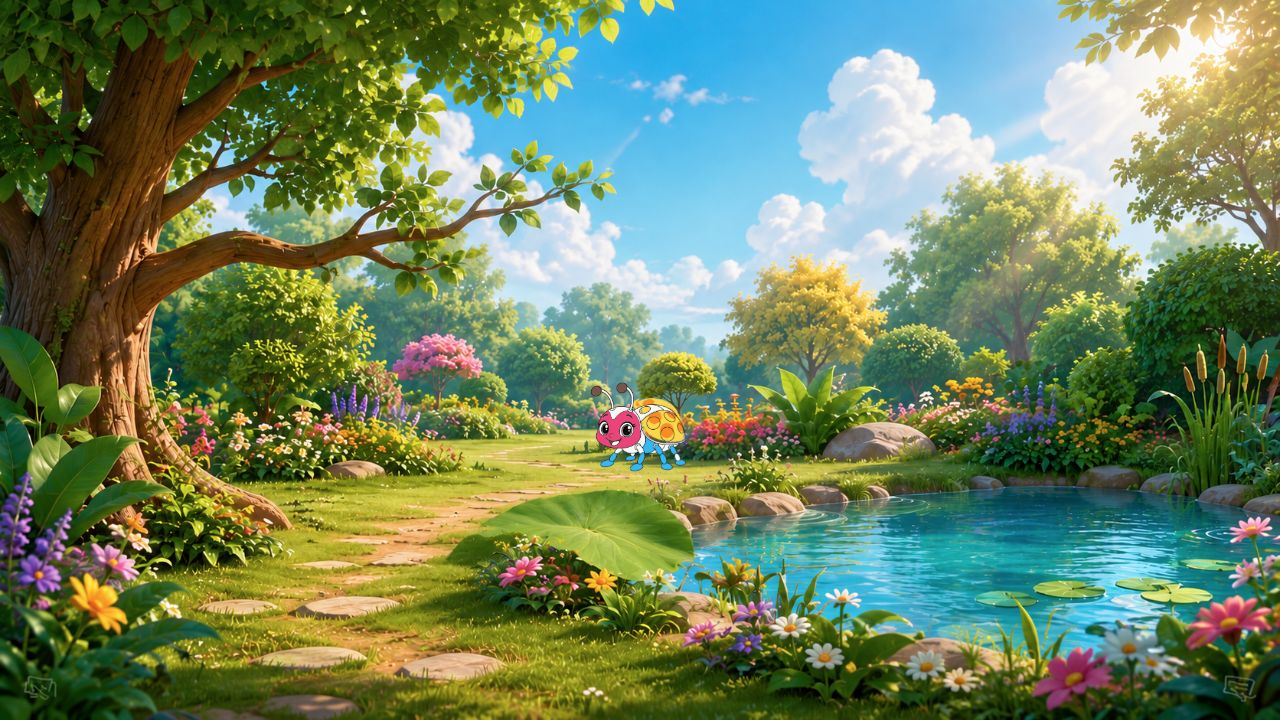
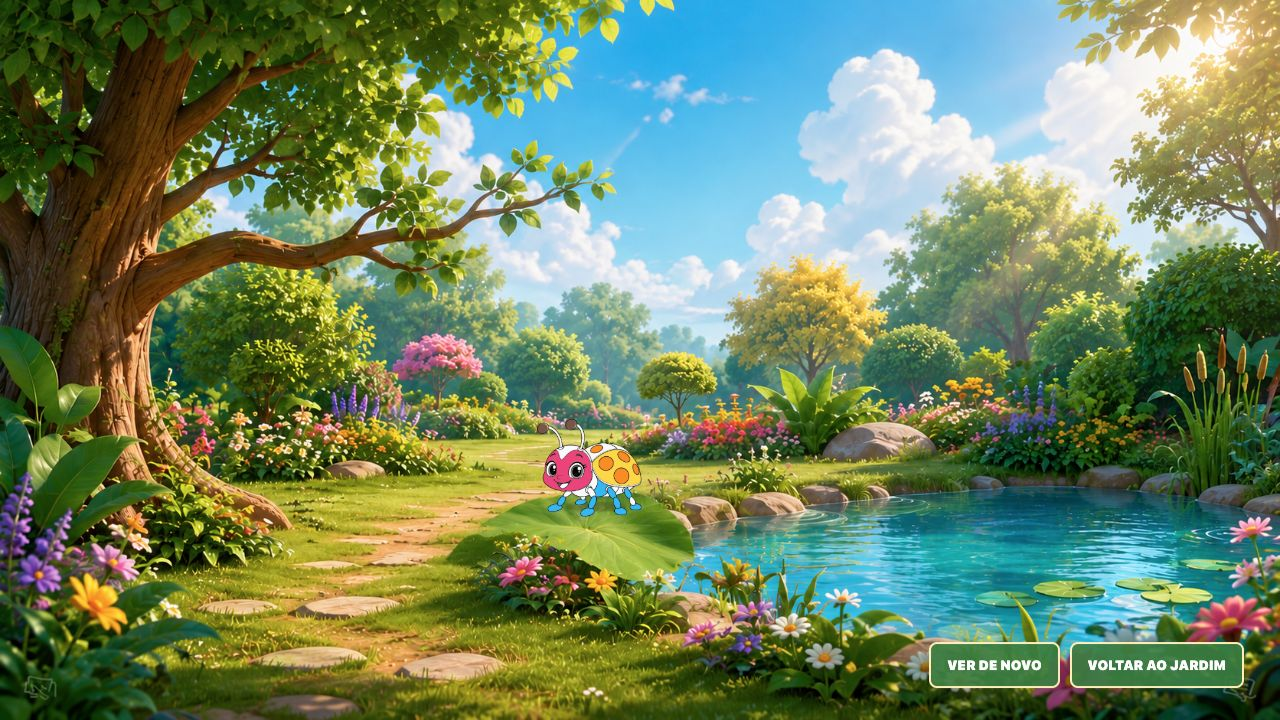
c

Changed region(s): [[0.7188, 0.8861, 0.9688, 0.9778], [0.4062, 0.5194, 0.5625, 0.7333]]

diff --git a/game-engine.css b/game-engine.css
@@ -5184,46 +5184,11 @@ body.game-immersive-active .game-stage,
 }
 
 .guided-life-wing-group.half {
-  transform: translate(0, -4%);
+  transform: translate(1.5%, -7%) rotate(-9deg) scale(0.96, 1.02);
 }
 
 .guided-life-wing-group.open {
-  transform: translate(0, -10%);
-}
-
-.guided-life-wing-side {
-  position: absolute;
-  inset: 0;
-  width: 100%;
-  height: 100%;
-  transform: translateZ(0);
-  will-change: transform;
-}
-
-.guided-life-wing-side.is-left {
-  clip-path: polygon(0 0, 55% 0, 55% 100%, 0 100%);
-  transform-origin: 55% 48%;
-}
-
-.guided-life-wing-side.is-right {
-  clip-path: polygon(45% 0, 100% 0, 100% 100%, 45% 100%);
-  transform-origin: 55% 48%;
-}
-
-.guided-life-wing-group.half .guided-life-wing-side.is-left {
-  transform: translate(-1.4%, -3.4%) rotate(-8deg) scale(0.98, 1.02);
-}
-
-.guided-life-wing-group.half .guided-life-wing-side.is-right {
-  transform: translate(1.4%, -3.4%) rotate(8deg) scale(0.98, 1.02);
-}
-
-.guided-life-wing-group.open .guided-life-wing-side.is-left {
-  transform: translate(-4.8%, -9%) rotate(-21deg) scale(0.92, 1.08);
-}
-
-.guided-life-wing-group.open .guided-life-wing-side.is-right {
-  transform: translate(4.8%, -9%) rotate(21deg) scale(0.92, 1.08);
+  transform: translate(-2%, -16%) rotate(-24deg) scale(0.84, 1.1);
 }
 
 .guided-life-wing-surface,

diff --git a/game-engine.js b/game-engine.js
@@ -7252,12 +7252,8 @@
       if (!texture && !spots) return "";
       return `
         <span class="guided-life-layer guided-life-wing-group is-wing ${kind}" data-guided-wing-state="${kind}" aria-hidden="true">
-          ${["left", "right"].map((side) => `
-            <span class="guided-life-wing-side is-${side}">
-              <span class="guided-life-painted guided-life-wing-surface" style="${this.guidedLifeLayerStyle("asas", wingClip)}"></span>
-              <span class="guided-life-painted guided-life-wing-spots" style="--life-texture:url('${spots}'); --life-clip:url('${spotsClip}')"></span>
-            </span>
-          `).join("")}
+          <span class="guided-life-painted guided-life-wing-surface" style="${this.guidedLifeLayerStyle("asas", wingClip)}"></span>
+          <span class="guided-life-painted guided-life-wing-spots" style="--life-texture:url('${spots}'); --life-clip:url('${spotsClip}')"></span>
         </span>
       `;
     }
